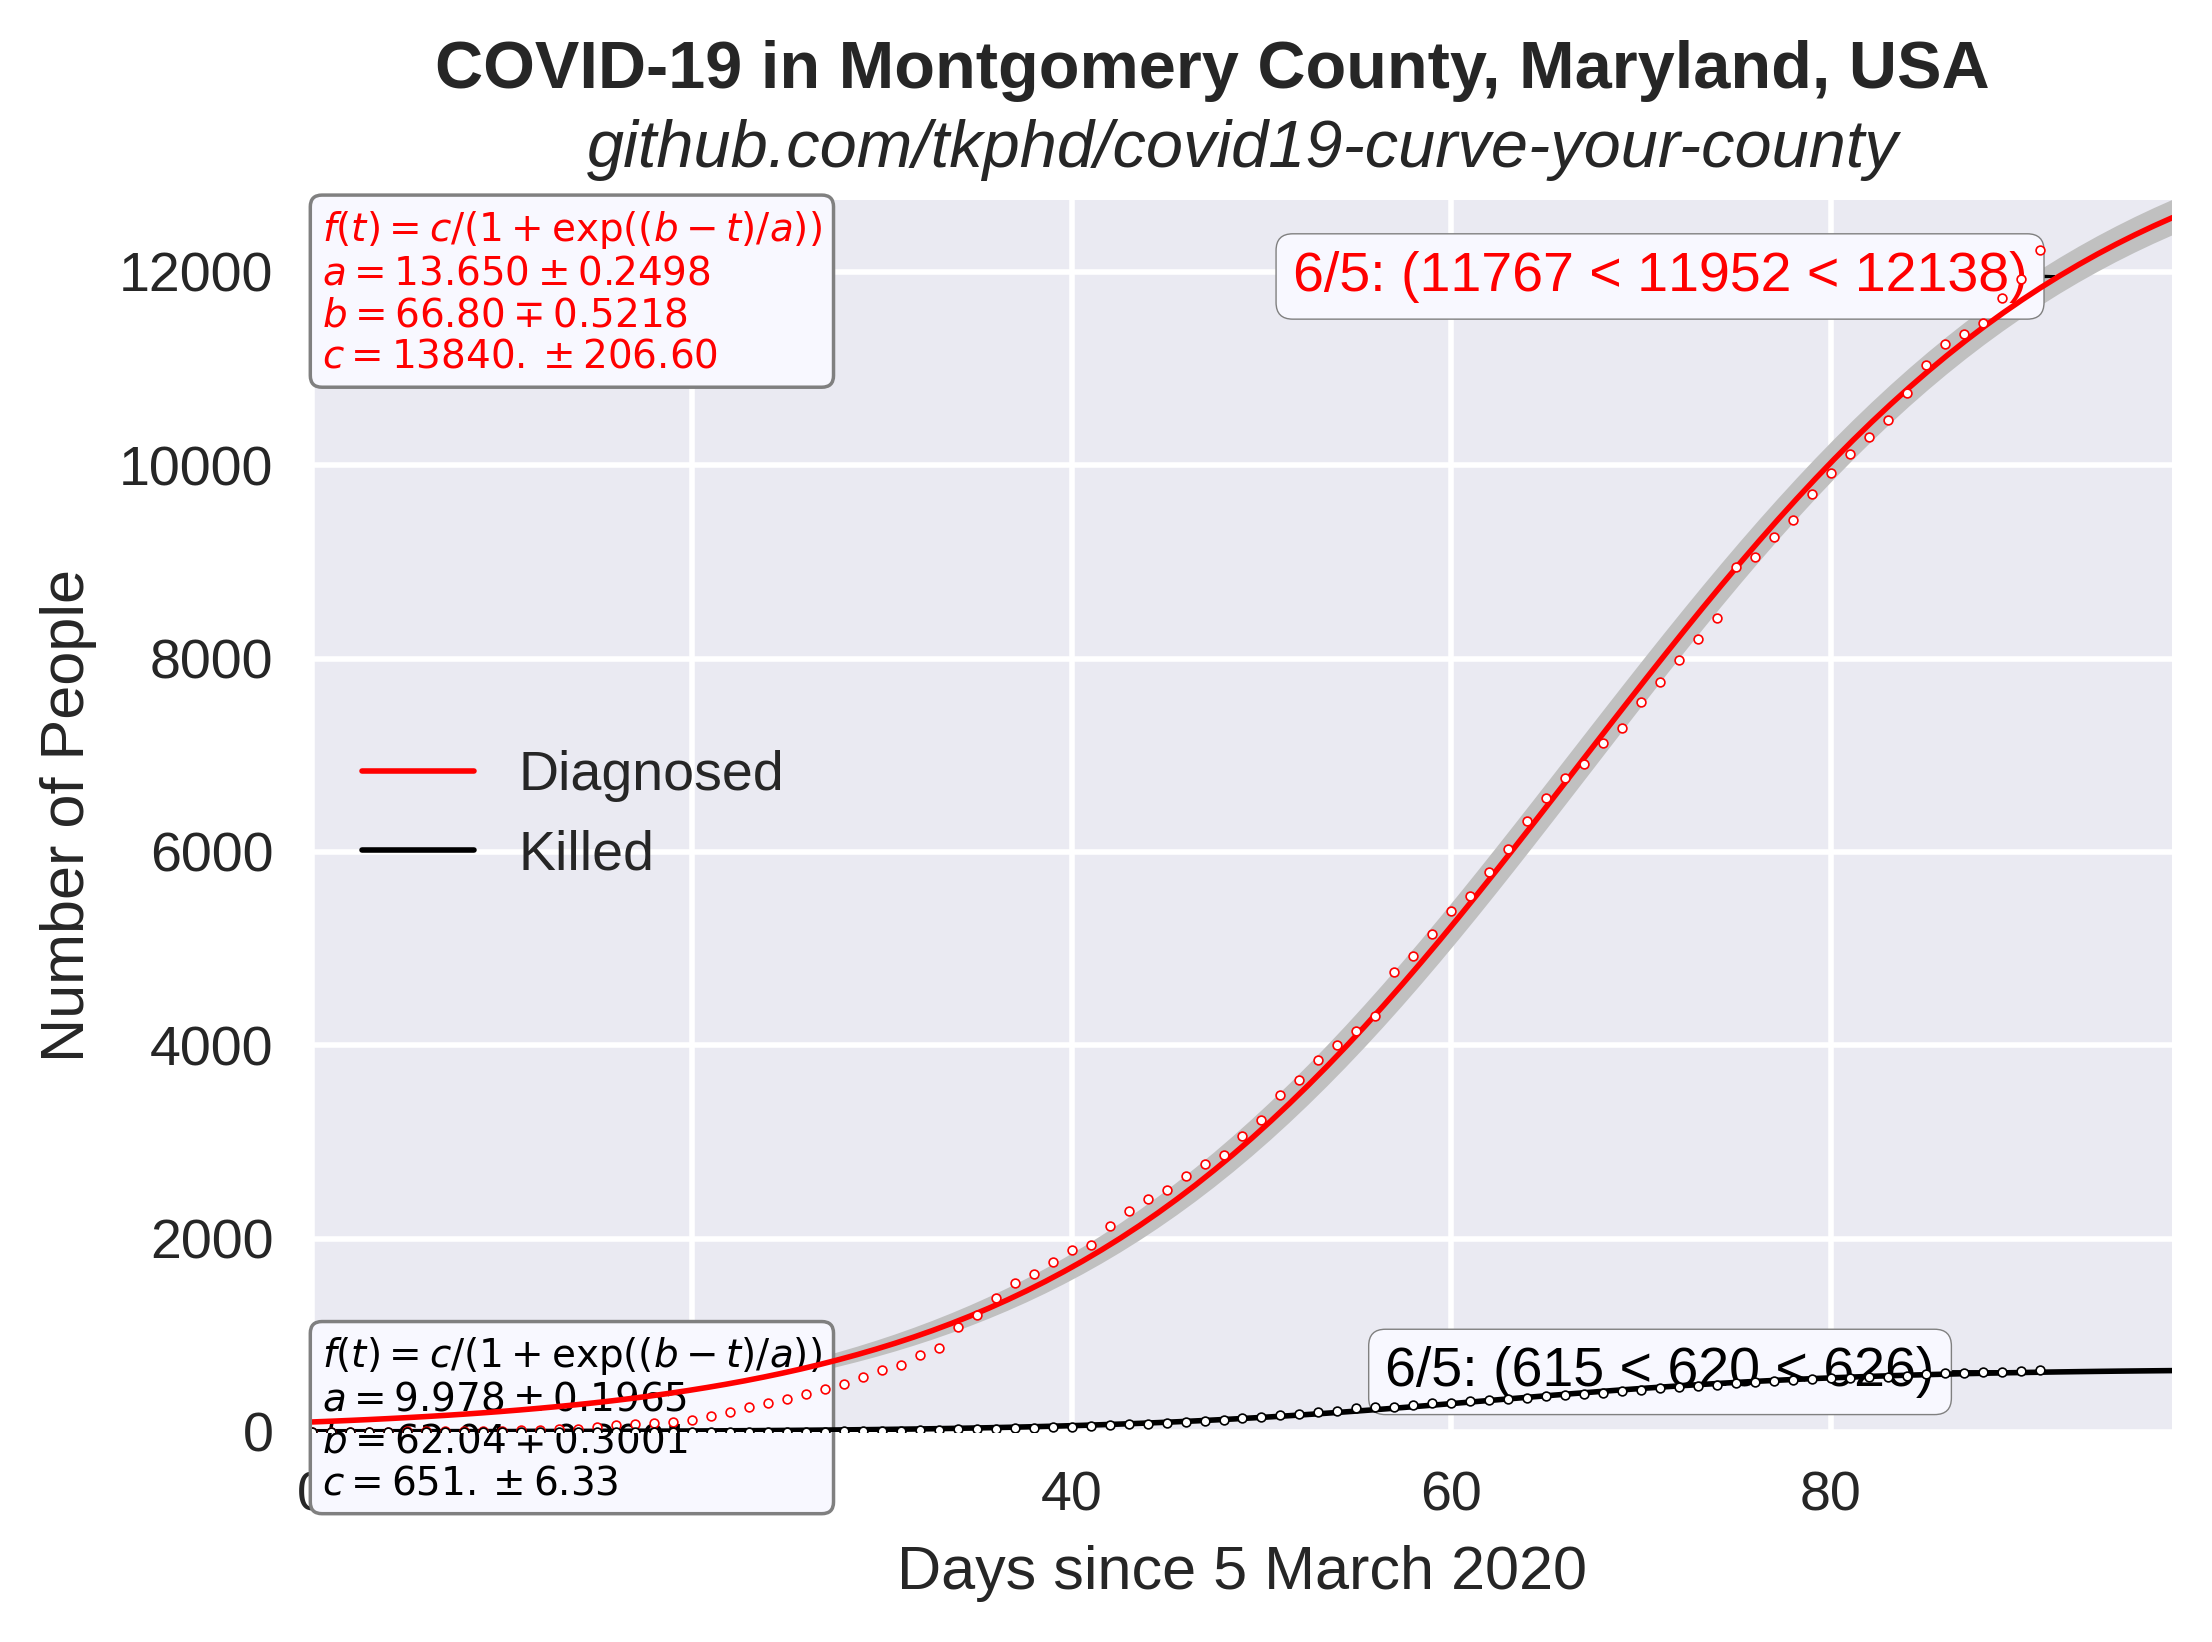
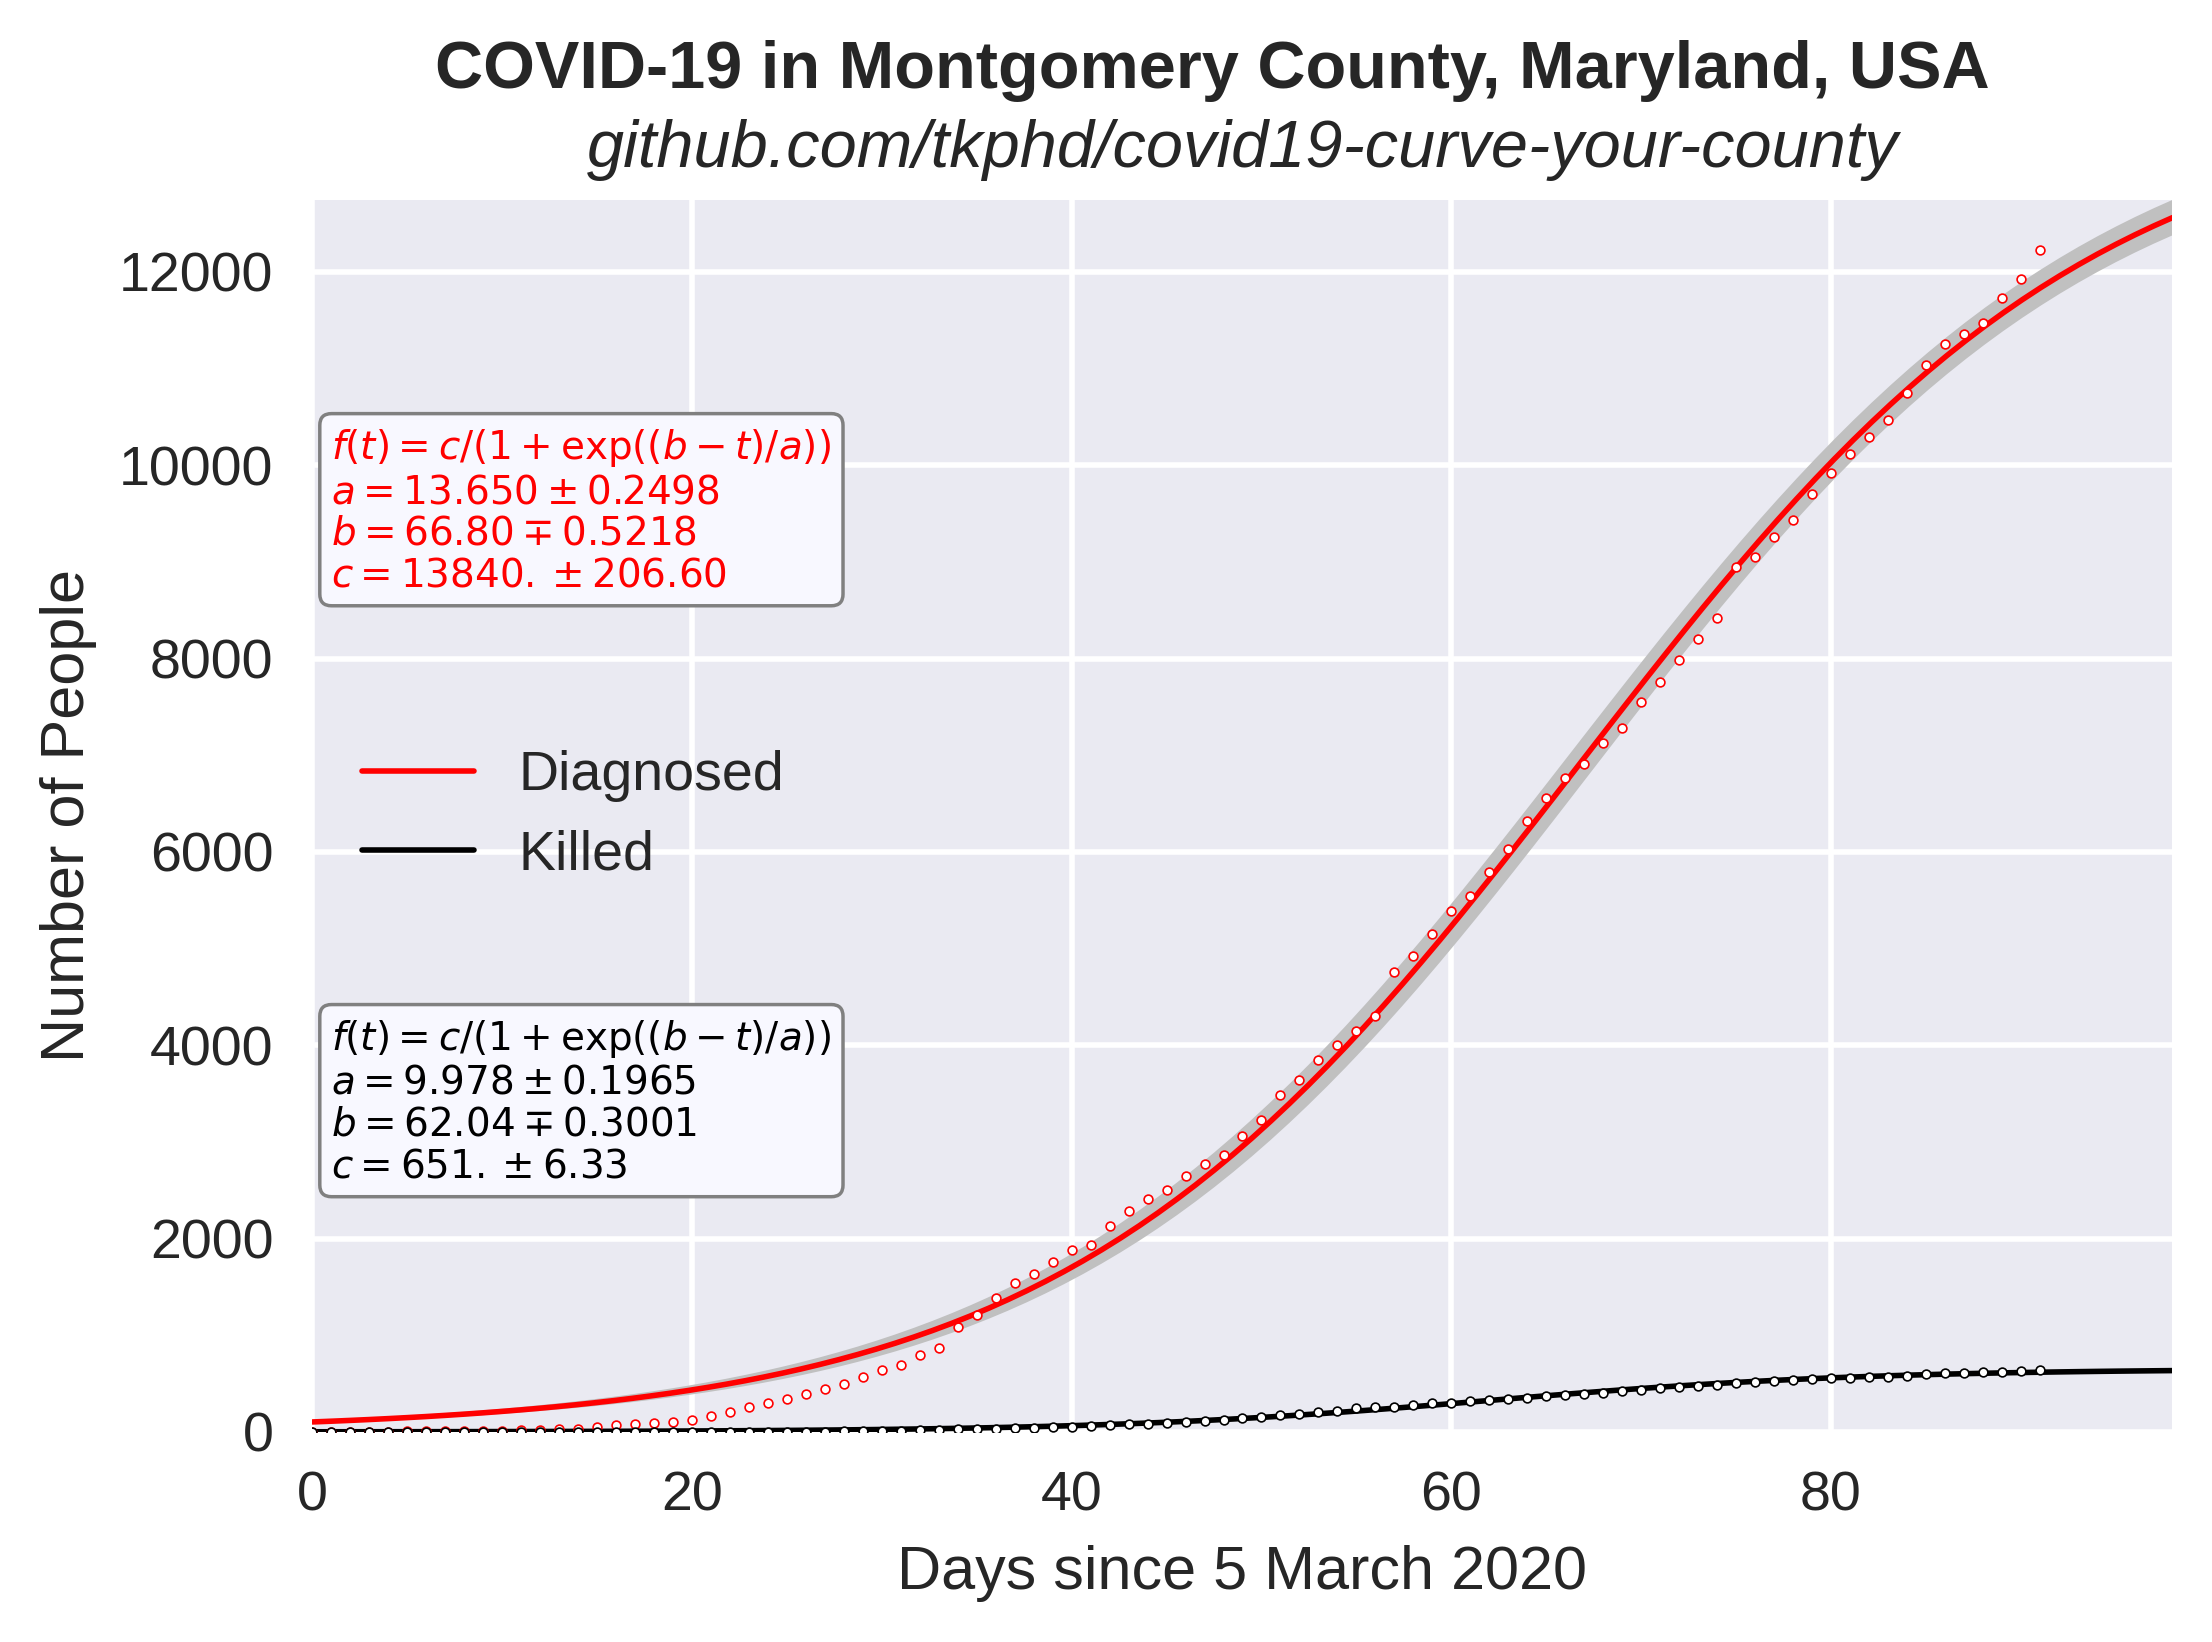
drop predictions, but keep equations

diff --git a/exponential.py b/exponential.py
@@ -188,66 +188,6 @@ for key in columns:
              bbox=dict(boxstyle="round", ec="gray", fc="ghostwhite", linewidth=2.5*dx)
     )
 
-    # Overlay projections on plot
-    plt.text(
-        t_hat[0] - dt,
-        y_hat[0],
-        "{0}/{1}: ({2:.0f} < {3:.0f} < {4:.0f})".format(
-            tomorrow.month, tomorrow.day, lower[0], y_hat[0], upper[0]
-        ),
-        color=colors[key],
-        va="center",
-        ha="center",
-        zorder=4,
-        bbox=dict(boxstyle="round", ec="gray", fc="ghostwhite", linewidth=dx)
-    )
-
-    # plt.text(
-    #     t_hat[1] - dt,
-    #     y_hat[1],
-    #     "{0}/{1}: ({2:.0f} < {3:.0f} < {4:.0f})".format(
-    #         nextWeek.month, nextWeek.day, lower[1], y_hat[1], upper[1]
-    #     ),
-    #     color=colors[key],
-    #     va="center",
-    #     ha="center",
-    #     zorder=3,
-    #     bbox=dict(boxstyle="round", ec="gray", fc="ghostwhite", linewidth=dx)
-    # )
-
-    hw = 12
-    hl = t_hat[1] / 100
-
-    plt.arrow(
-        t_hat[0] - dt,
-        y_hat[0],
-        dt - dx + 0.0625,
-        0,
-        fc="black",
-        ec="black",
-        head_width=hw,
-        head_length=hl,
-        overhang=dx,
-        length_includes_head=True,
-        linewidth=0.5,
-        zorder=3,
-    )
-
-    # plt.arrow(
-    #     t_hat[1] - dt,
-    #     y_hat[1],
-    #     dt - dx + 0.0625,
-    #     0,
-    #     fc="black",
-    #     ec="black",
-    #     head_width=hw,
-    #     head_length=hl,
-    #     overhang=dx,
-    #     length_includes_head=True,
-    #     linewidth=0.5,
-    #     zorder=2,
-    # )
-
     if t_hat[-1] > t_max:
         t_max = t_hat[-1]
     if upper[-1] > y_max:
